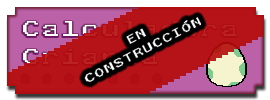
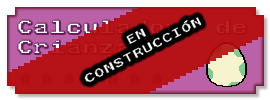
New images for the main menu.

diff --git a/protected/views/layouts/main.php b/protected/views/layouts/main.php
@@ -32,7 +32,7 @@
 		<nav>
 			<ul>
 				<li><?php echo CHtml::link('<img src="'.Yii::app()->request->baseUrl.'/images/nav/pokeball.png" width="300" height="100" />',  Yii::app()->createurl('pokeball/pokeball/index')) //Module/controller/view ?> </li>
-				<li><?php echo CHtml::link('<img src="'.Yii::app()->request->baseUrl.'/images/nav/breed.png" width="300" height="100" />',  Yii::app()->createurl('stats/stats/index'))?> </li>
+				<li><?php echo CHtml::link('<img src="'.Yii::app()->request->baseUrl.'/images/nav/stats.png" width="300" height="100" />',  Yii::app()->createurl('stats/stats/index'))?> </li>
 				<li><?php echo CHtml::link('<img src="'.Yii::app()->request->baseUrl.'/images/nav/about.png" width="300" height="100" />', array('/site/about')) ?></li>
 			</ul>
 		</nav>

diff --git a/protected/views/site/index.php b/protected/views/site/index.php
@@ -1,3 +1,5 @@
 <?php
 $this->pageTitle=Yii::app()->name;
 ?>
+
+<div style="height:220px;width:auto"></div>
